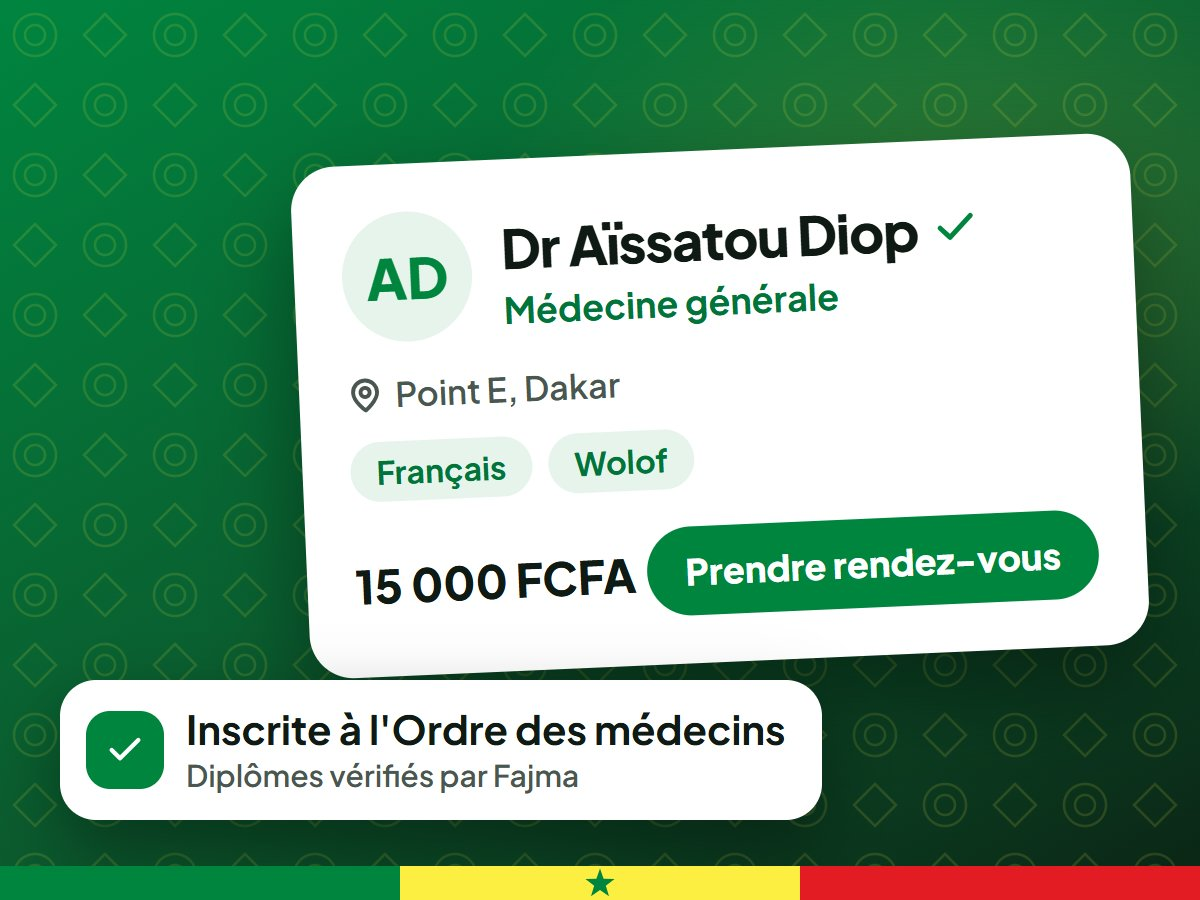
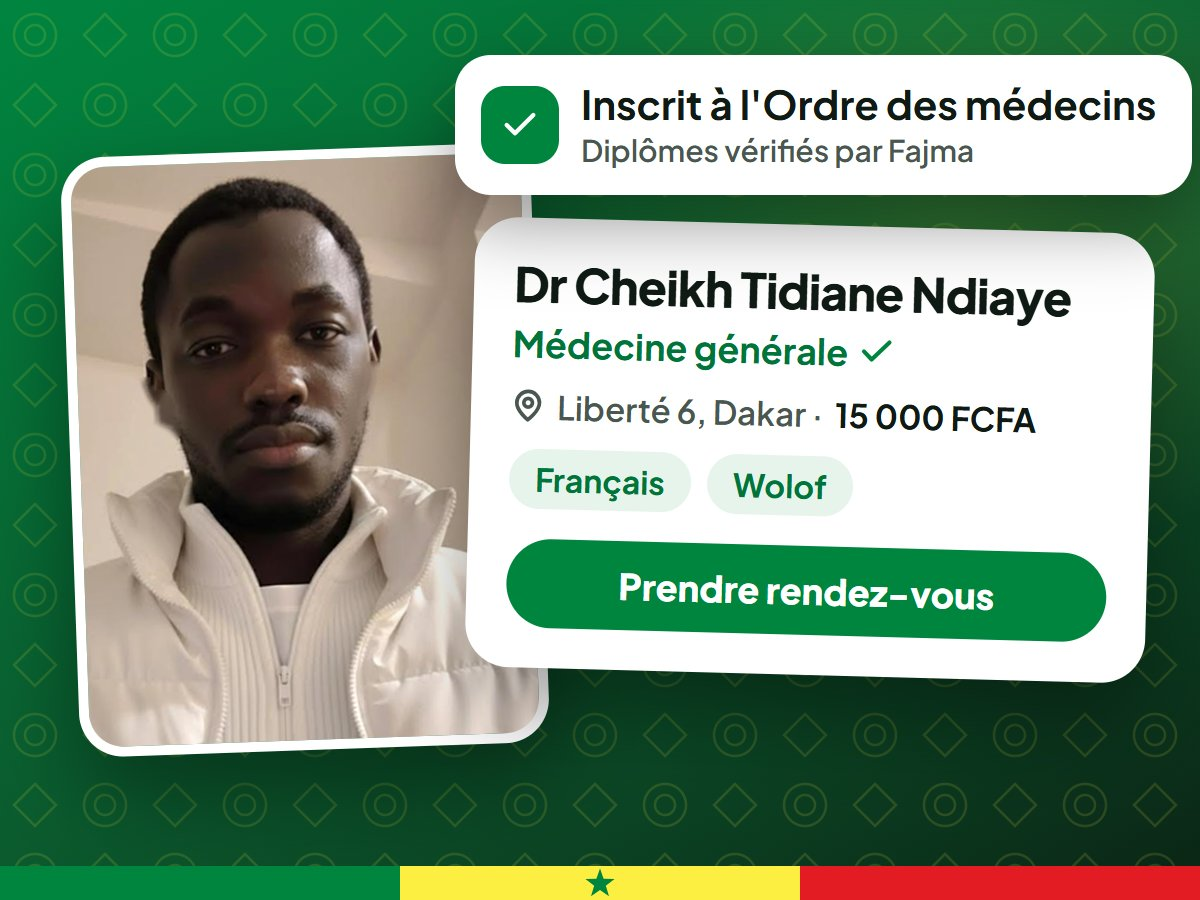
Accueil : image « Médecins vérifiés » avec la photo fournie par le fondateur (écouteurs retirés)

diff --git a/src/routes/index.tsx b/src/routes/index.tsx
@@ -315,7 +315,7 @@ function Landing() {
           <div className="mt-16 grid gap-10 md:grid-cols-3">
             <FeatureCard
               image={doctorHero}
-              alt="Fiche Fajma d'une médecin généraliste de Dakar : inscrite à l'Ordre, parle français et wolof, tarifs en francs CFA"
+              alt="Fiche Fajma d'un médecin généraliste de Liberté 6, à Dakar : inscrit à l'Ordre, parle français et wolof, consultation à 15 000 FCFA"
               tag="Médecins vérifiés"
               title="Des spécialistes de confiance"
               body="Consultez des professionnels reconnus, diplômes vérifiés, avis patients transparents."
